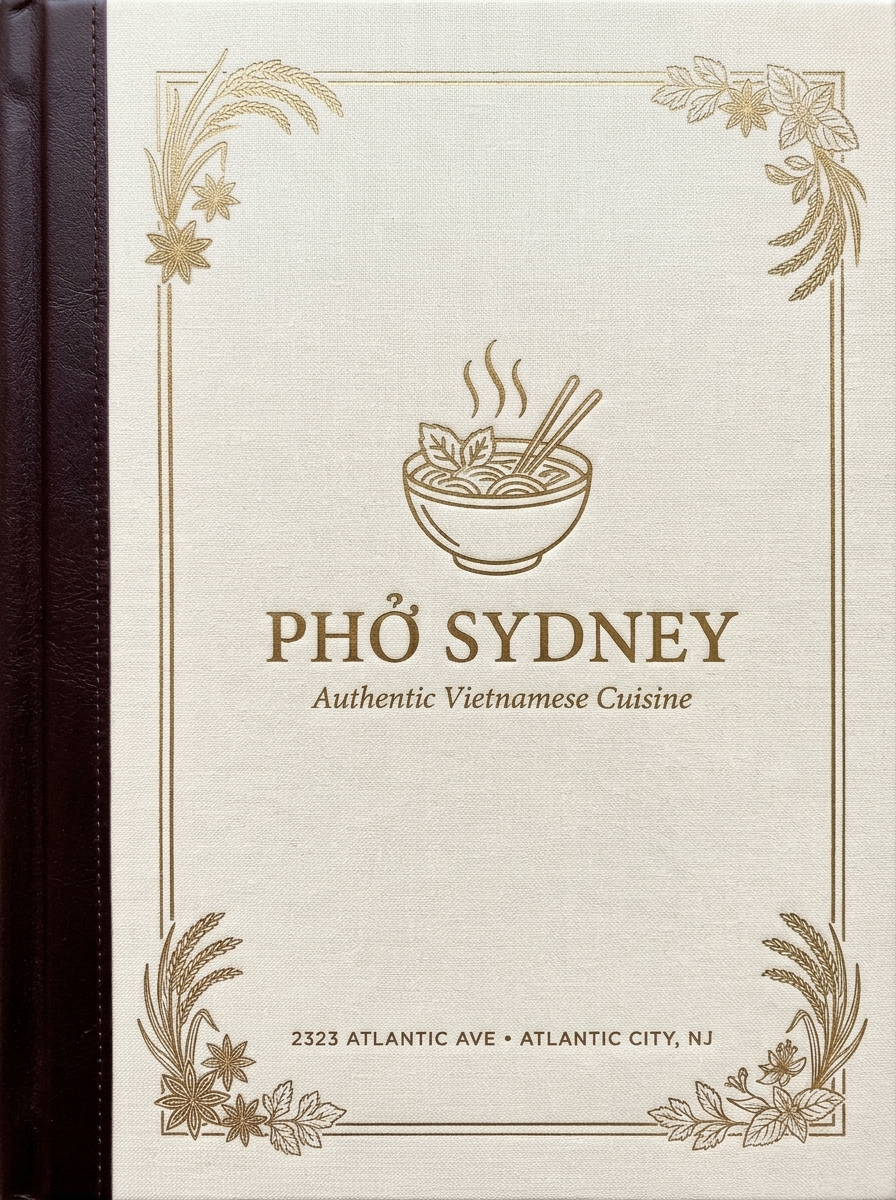
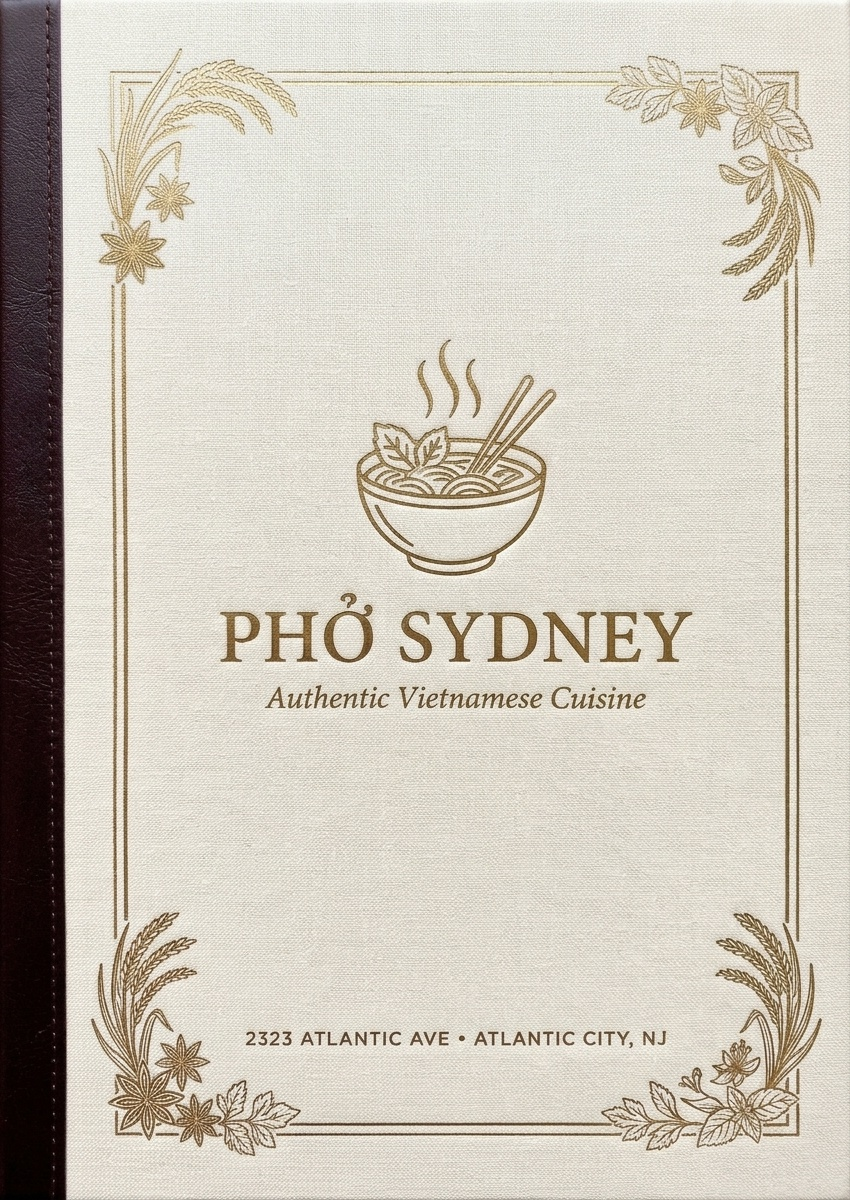
fix(menu): trim outer left spine ridge on cover art and match page aspect ratio

diff --git a/src/css/style.css b/src/css/style.css
@@ -1778,7 +1778,7 @@ button {
   position: relative;
   flex: 1 1;
   min-width: 0;
-  max-width: 1060px;
+  max-width: 1040px;
   perspective: 1750px;
   perspective-origin: 50% 46%;
 }
@@ -2183,8 +2183,7 @@ button {
   inset: 0;
   width: 100%;
   height: 100%;
-  object-fit: cover;
-  object-position: center;
+  object-fit: fill;
   display: block;
   user-select: none;
   -webkit-user-drag: none;
